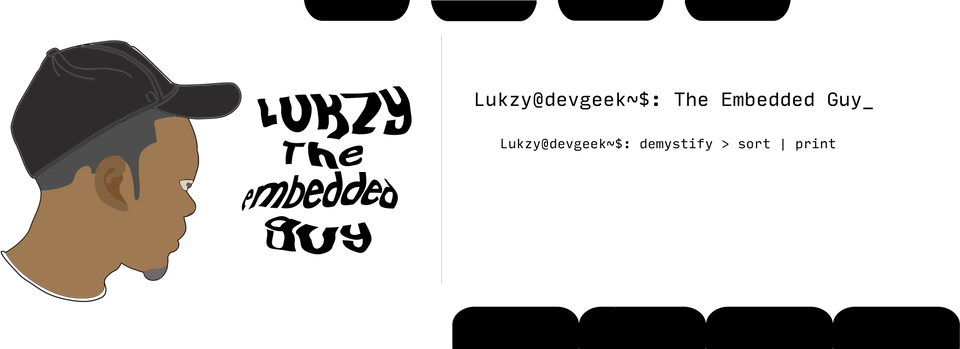
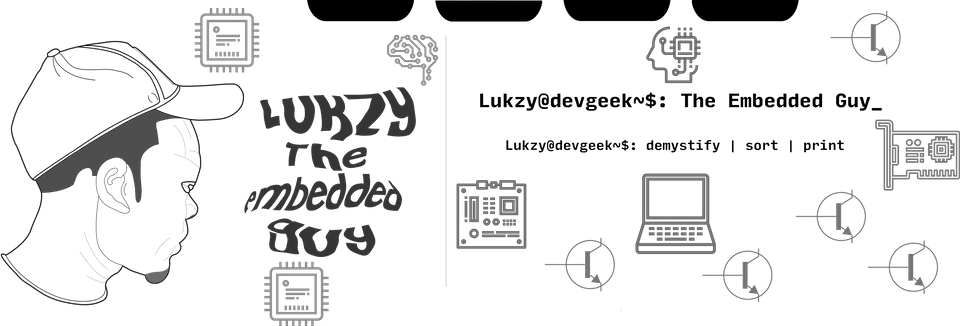
refactor css

diff --git a/index.html b/index.html
@@ -4,7 +4,7 @@
     <meta charset="utf-8">
     <title>The embedded guy</title>
     <link rel="stylesheet" href="style/css/main.css">
-    <!-- <link rel="stylesheet" type="text/css" href="style/css/style.css"/> -->
+
     <!-- stylesheet for older browsers -->
 
     <!-- ie6/7 micro clearfix -->
@@ -23,7 +23,7 @@
 </head>
 <body>
     <header>
-        <img src="img/blog_banner_final.png" alt="blog banner">
+        <img src="img/blog_banner.png" alt="blog banner">
     </header>
 
     <main>

diff --git a/style/css/main.css b/style/css/main.css
@@ -153,7 +153,7 @@ footer {
 #intro-section .intro {
     font-family: 'geekybat';
     font-weight: normal;
-    font-size: 1.3vw;
+    font-size: 2vw;
 }
 
 .blog-section {
